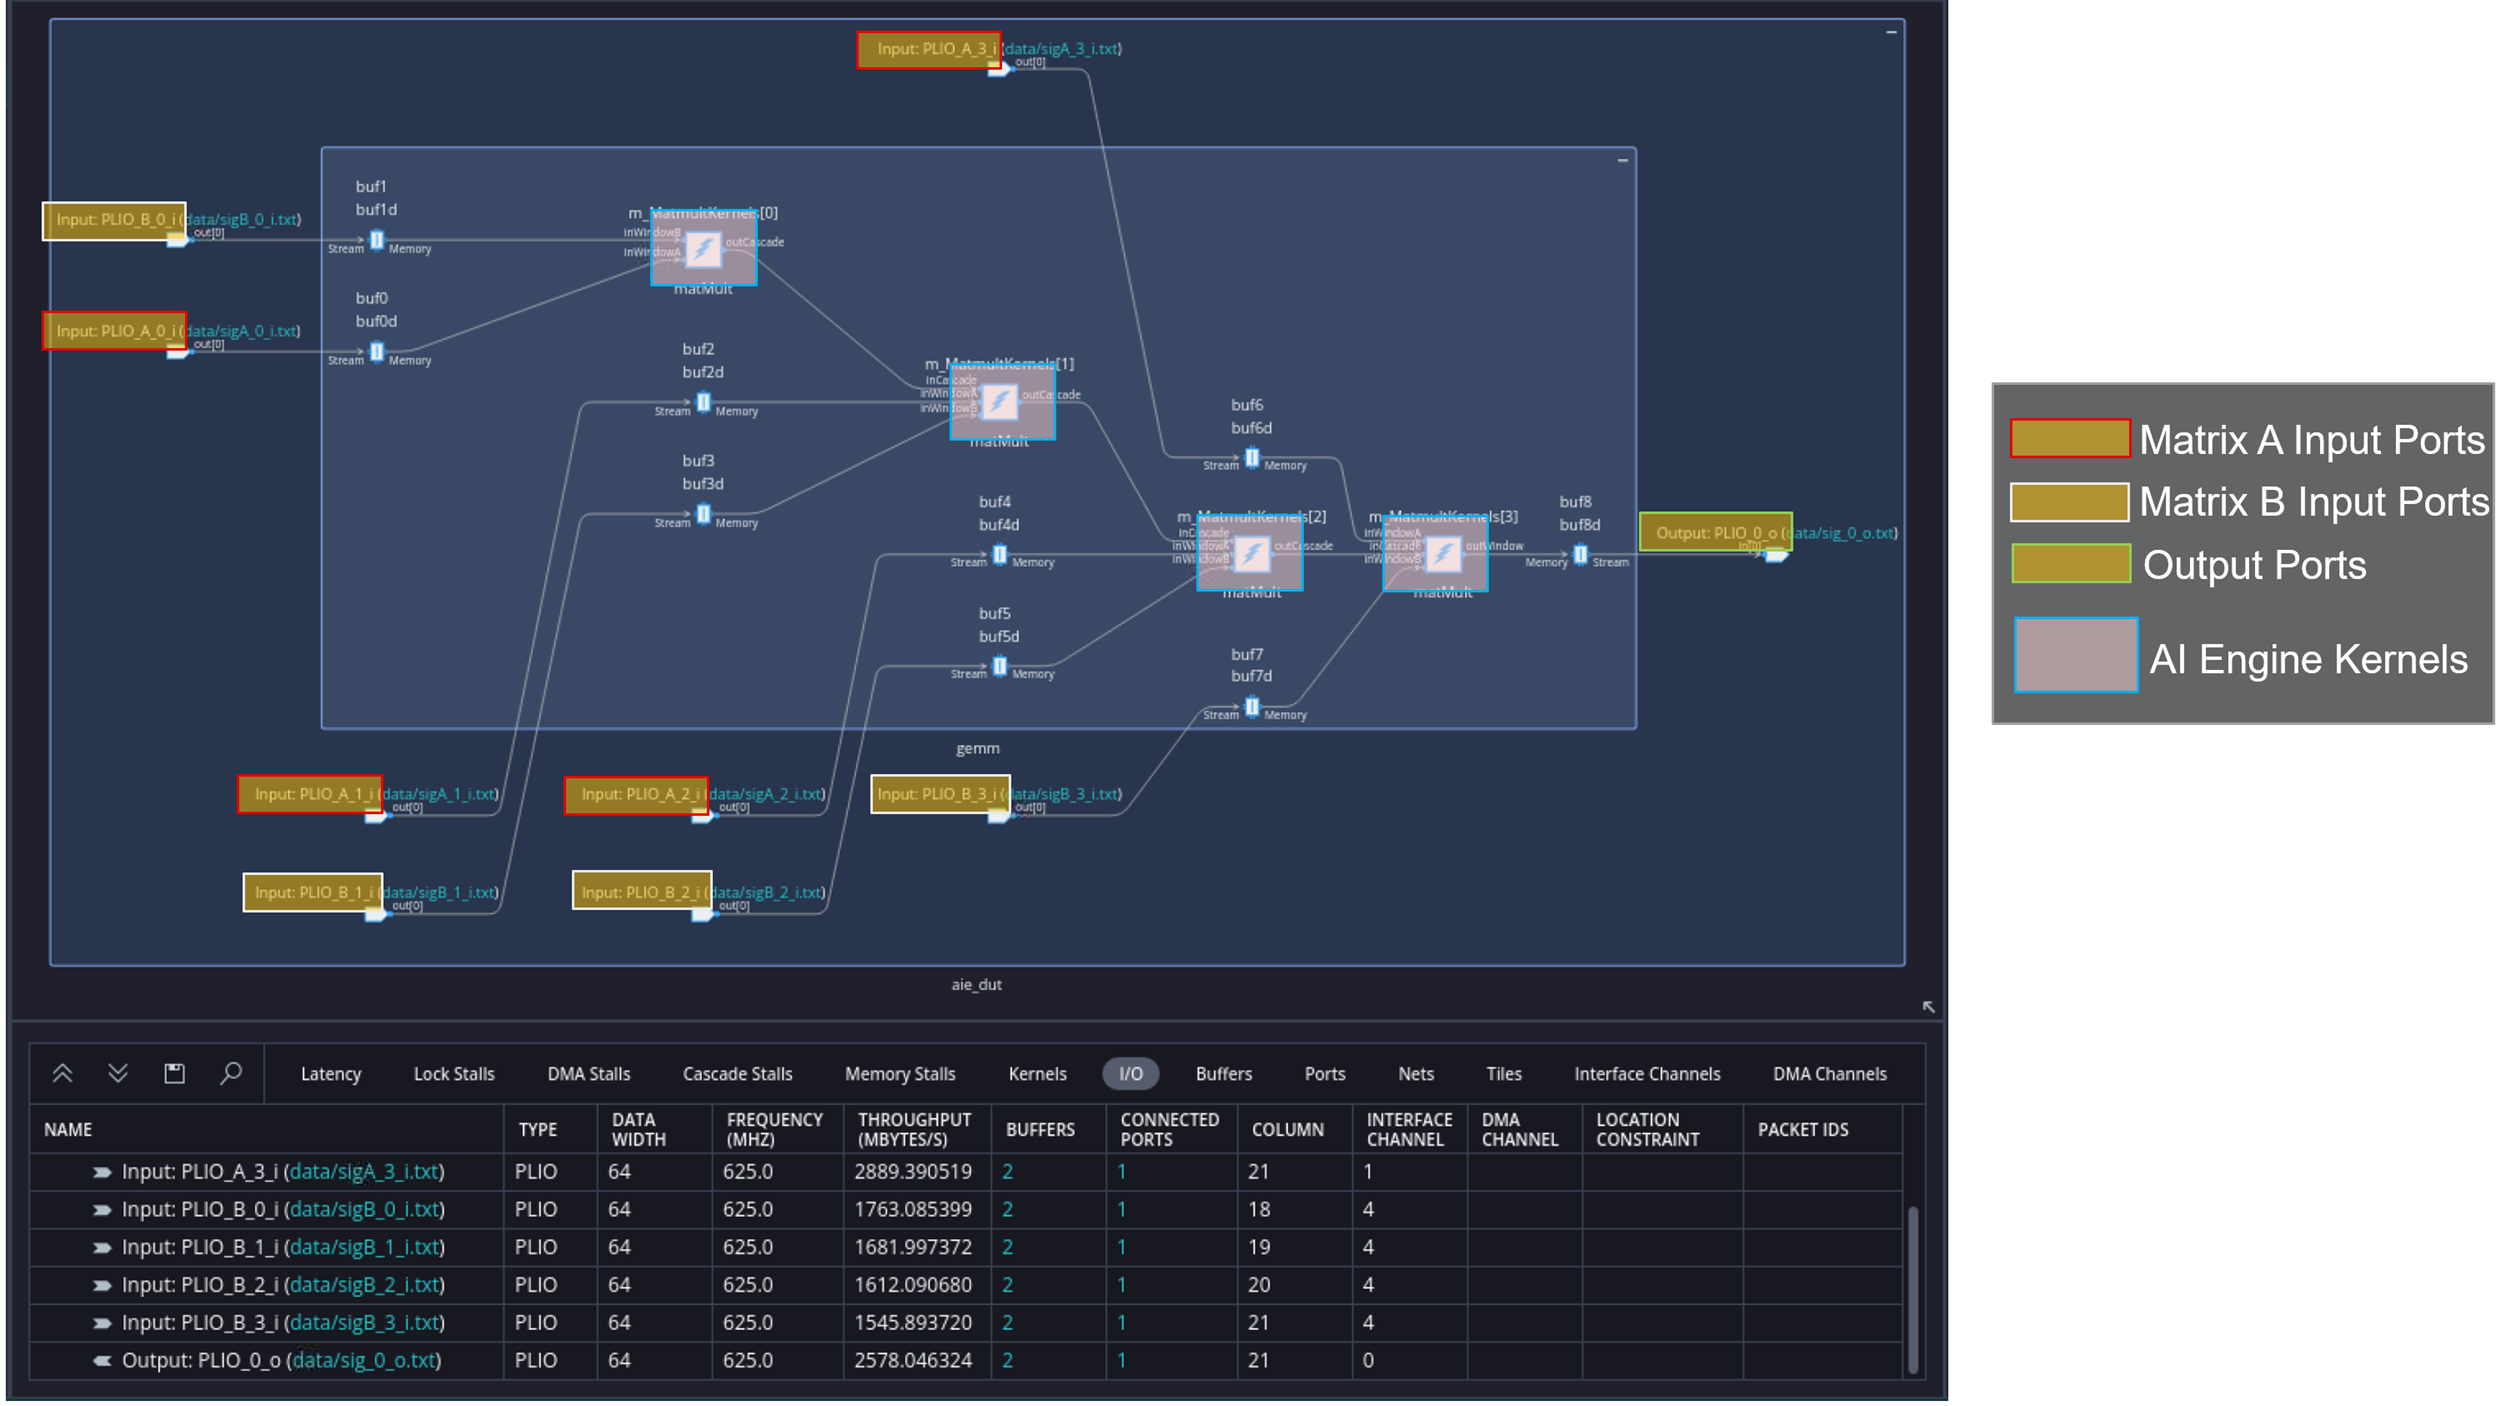
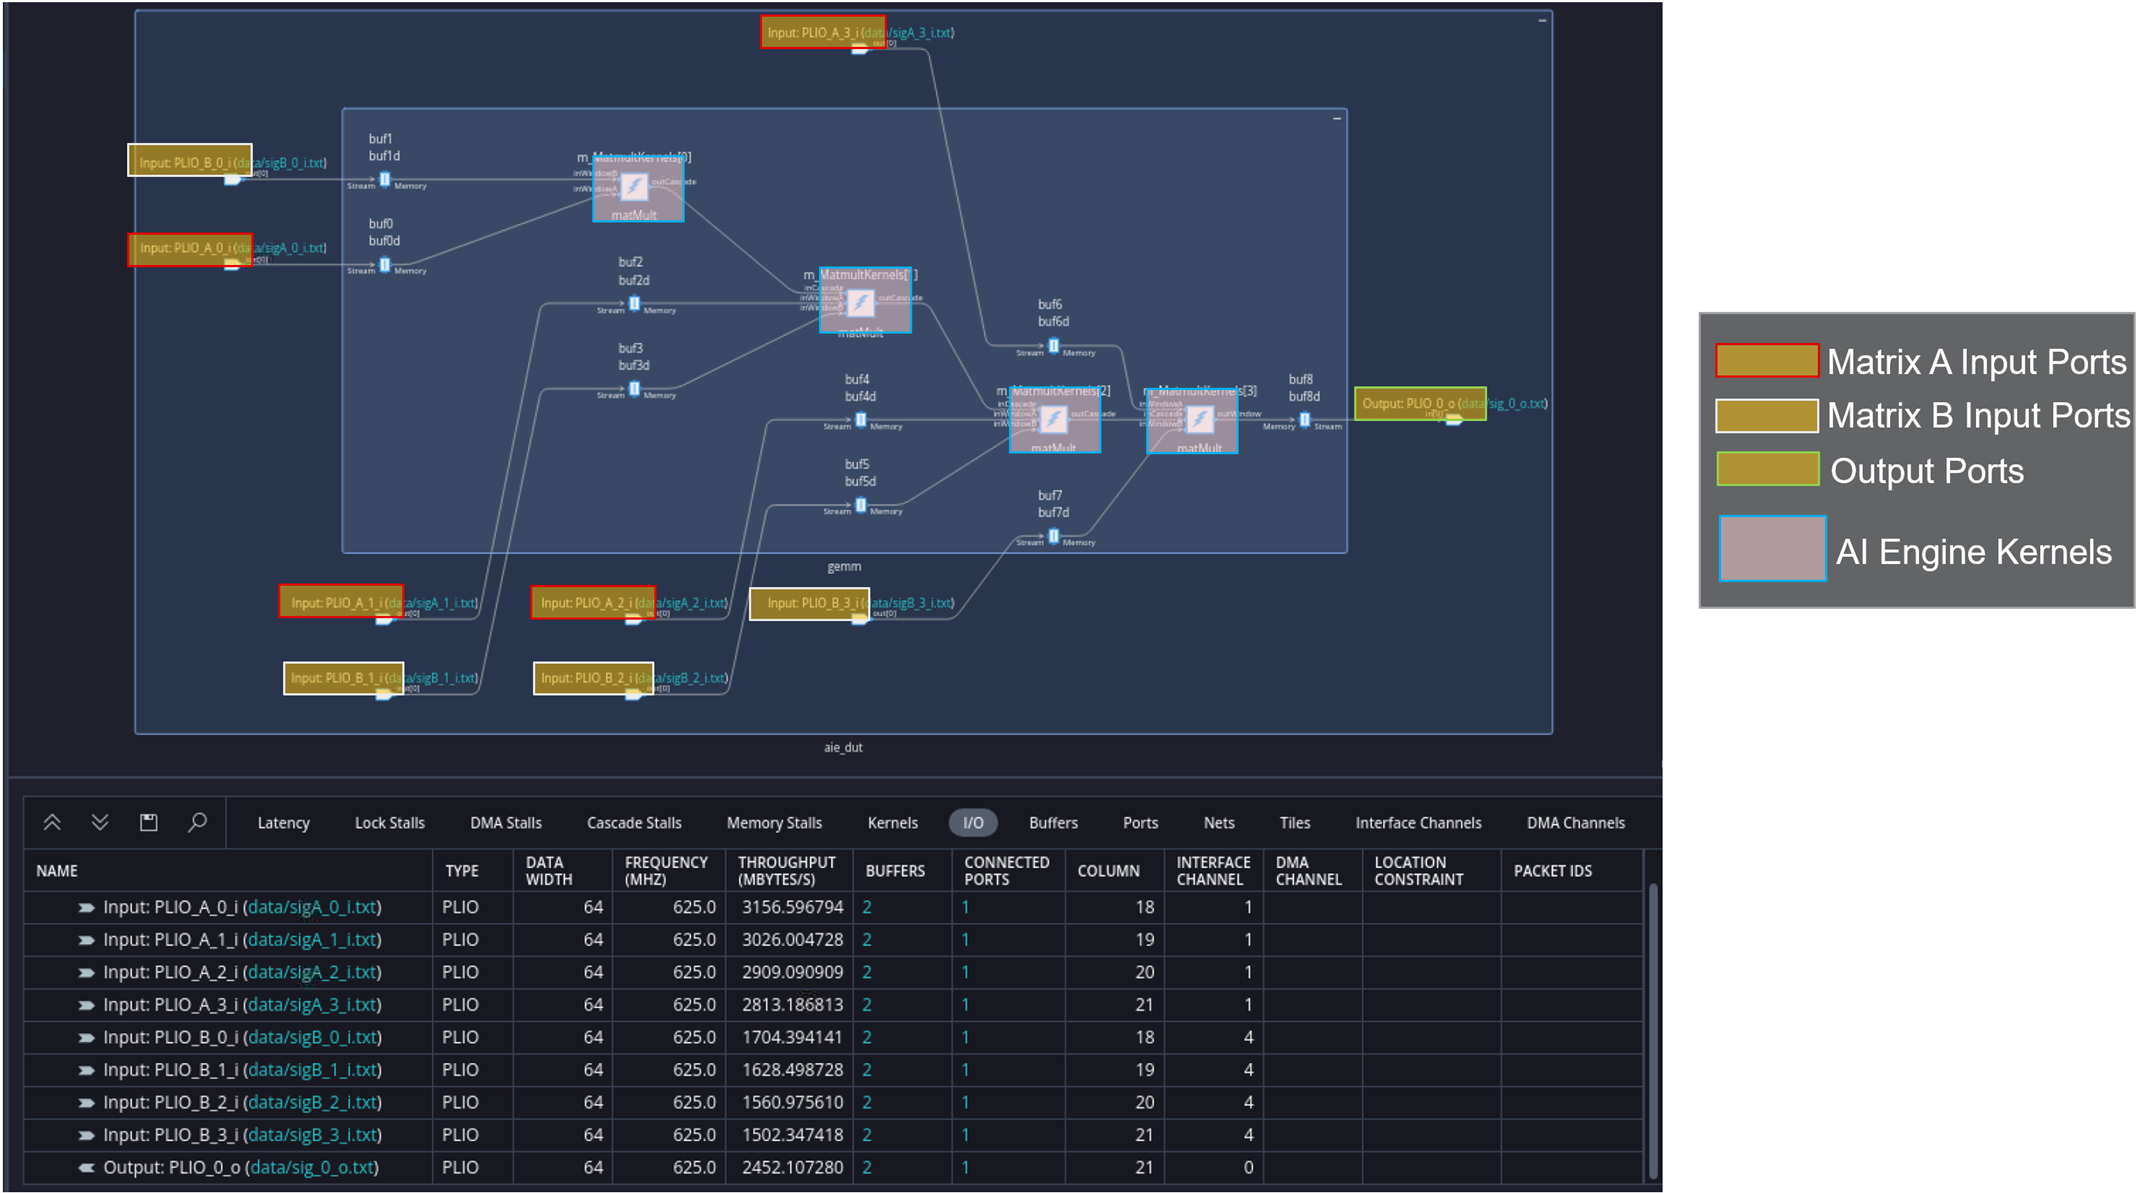
AIE-ML/F/06-gemm: update to 2025.1

Changed region(s): [[0.0, 0.0, 1.0, 1.0], [0.6168, 0.093, 0.6477, 0.1241]]

diff --git a/AI_Engine_Development/AIE-ML/Feature_Tutorials/06-gemm/README.md b/AI_Engine_Development/AIE-ML/Feature_Tutorials/06-gemm/README.md
@@ -9,7 +9,7 @@
 
 # Matrix Compute with Vitis Libraries on AIE and AIE-ML
 
-***Version: Vitis 2024.2***
+***Version: Vitis 2025.1***
 
 ## Introduction
 
@@ -280,7 +280,7 @@ For the output port **NPORT_O**, it is set to ```TP_SSR```, which means there wi
 ### Change the Project Path
 Enter the following command to navigate to the project path of the design variant 1:
 ```
-$ cd <path-to-tutorial>/aie/gemm_16_32x8
+$ cd <path-to-tutorial>/aie/gemm_16x32x8
 ```
 
 ### Review the gemm_16x32x8_graph.h file
@@ -301,7 +301,7 @@ Similarly, using NPORT_O as the loop counter, the output ports are named PLIO_0_
 
 Close the ```gemm_16x32x8_graph.h``` file after complete your review.
 
-Similarly, review the ```gemm_16x32x8_graph.cpp``` file. After completing the review, close this file.
+Similarly, review the ```gemm_16x32x8_app.cpp``` file. After completing the review, close this file.
 
 ### Compile and Simulate the Design Variant 1: Single Tile
 
@@ -332,7 +332,7 @@ $ make profile
 $ make check_sim_output_aie
 ```
 The first first command deletes all the previously generated files, the second command compiles graph code for the SystemC simulator, the third command runs the AIE simulation, and the final command invokes MATLAB to compare the simulation output with the golden test vectors. The average throughput for the IO ports is displayed at the end of AIE simulation.
-The output port PLIO_0_o throughput (MBps) is 1137.78.
+The output port PLIO_0_o throughput (MBps) is 1112.56.
 
 After running the last command (`make check_sim_output_aie`) to verify the results, the console should output as follows: 
 ```
@@ -358,7 +358,7 @@ Close the Vitis Analyzer.
 
 | Design              | TP_CASC_LEN | TP_SSR | NPORT_I | NPORT_O | Throughput  |
 |---------------------|-------------|--------|---------|---------|-------------|
-| Design Variant 1    |      2      |    1   |    1    |    1    | 1137 MBPS   |
+| Design Variant 1    |      2      |    1   |    1    |    1    | 1112 MBPS   |
 
 
 ## Design Variant 2: 4-tile design with TP_CASC_LEN=4
@@ -402,7 +402,7 @@ $ make check_sim_output_aie
 ```
 
 The average throughput for the IO ports is displayed at the end of AIE simulation.
-The output port PLIO_0_o throughput (MBps) is 2578.05.
+The output port PLIO_0_o throughput (MBps) is 2452.11.
 
 After running the last command (`make check_sim_output_aie`) to verify the results, the console should output as follows: 
 ```
@@ -430,8 +430,8 @@ Close the Vitis Analyzer.
 
 | Design              | TP_CASC_LEN | TP_SSR | NPORT_I | NPORT_O | Throughput  |
 |---------------------|-------------|--------|---------|---------|-------------|
-| Design Variant 1    |      2      |    1   |    1    |    1    | 1137 MBPS   |
-| Design Variant 2    |      4      |    1   |    4    |    1    | 2578 MBPS   |
+| Design Variant 1    |      2      |    1   |    1    |    1    | 1112 MBPS   |
+| Design Variant 2    |      4      |    1   |    4    |    1    | 2452 MBPS   |
 
 ## Design Variant 3: 8-tile design with TP_CASC_LEN=4 and TP_SSR=2
 
@@ -472,7 +472,7 @@ $ make check_sim_output_aie
 ```
 
 The average throughput for the IO ports is displayed at the end of AIE simulation.
-The throughput for the output port is approximately 3935 MBYTES/S (i.e., PLIO_0_o + PLIO_1_o).
+The throughput for the output port is approximately 3815.2 MBYTES/S (i.e., PLIO_0_o + PLIO_1_o).
 
 After running the last command (`make check_sim_output_aie`) to verify the results, the console should output as follows: 
 ```
@@ -505,9 +505,9 @@ Close the Vitis Analyzer.
 
 | Design              | TP_CASC_LEN | TP_SSR | NPORT_I | NPORT_O | Throughput  |
 |---------------------|-------------|--------|---------|---------|-------------|
-| Design Variant 1    |      2      |    1   |    1    |    1    | 1137 MBPS   |
-| Design Variant 2    |      4      |    1   |    4    |    1    | 2578 MBPS   |
-| Design Variant 3    |      4      |    2   |    8    |    2    | 3935 MBPS   |
+| Design Variant 1    |      2      |    1   |    1    |    1    | 1112 MBPS   |
+| Design Variant 2    |      4      |    1   |    4    |    1    | 2452 MBPS   |
+| Design Variant 3    |      4      |    2   |    8    |    2    | 3815 MBPS   |
 
 
 ## Migrate the Design from AIE to AIE-ML and Evalute the Performance Differences
@@ -526,7 +526,7 @@ cd ../../aie-ml/gemm_16x32x8
 Open the ```Makefile``` file and review the code. The only modification is the updated platform name.
 
 ```
-PLATFORM_USE      := xilinx_vek280_base_202410_1
+PLATFORM_USE      := xilinx_vek280_base_202510_1
 ```
 
 ### Design Variant 1: Single Tile (AIE-ML)
@@ -583,7 +583,7 @@ $ make check_sim_output_aie
 ```
 
 The average throughput for the IO ports is displayed at the end of AIE simulation.
-The throughput for the output port is approximately 3080 MB/s.
+The throughput for the output port is approximately 3029 MB/s.
 
 After running the last command (`make check_sim_output_aie`) to verify the results, the console should output as follows: 
 ```
@@ -607,7 +607,7 @@ Close the Vitis Analyzer.
 | Design              | TP_CASC_LEN | TP_SSR | NPORT_I | NPORT_O | Throughput (AIE)|Throughput (AIE-ML)|
 |---------------------|-------------|--------|---------|---------|-----------------|-------------------|
 | Design Variant 1    |      2      |    1   |    1    |    1    | 1137 MBPS       | 1529 MBPS         |
-| Design Variant 2    |      4      |    1   |    4    |    1    | 2578 MBPS       | 3080 MBPS         |
+| Design Variant 2    |      4      |    1   |    4    |    1    | 2578 MBPS       | 3029 MBPS         |
 | Design Variant 3    |      4      |    2   |    8    |    2    | 3935 MBPS       |                   |
 
 ## Design Variant 3: 8-tile design with TP_CASC_LEN=4 and TP_SSR=2 (AIE-ML)
@@ -627,7 +627,7 @@ $ make check_sim_output_aie
 ```
 
 The average throughput for the IO ports is displayed at the end of AIE simulation.
-The throughput for the output port is approximately 6481 MB/s (i.e., PLIO_0_o + PLIO_1_o).
+The throughput for the output port is approximately 6702 MB/s (i.e., PLIO_0_o + PLIO_1_o).
 
 After running the last command (`make check_sim_output_aie`) to verify the results, the console should output as follows: 
 ```
@@ -651,15 +651,15 @@ Close the Vitis Analyzer.
 | Design              | TP_CASC_LEN | TP_SSR | NPORT_I | NPORT_O | Throughput (AIE)|Throughput (AIE-ML)|
 |---------------------|-------------|--------|---------|---------|-----------------|-------------------|
 | Design Variant 1    |      2      |    1   |    1    |    1    | 1137 MBPS       | 1529 MBPS         |
-| Design Variant 2    |      4      |    1   |    4    |    1    | 2578 MBPS       | 3080 MBPS         |
-| Design Variant 3    |      4      |    2   |    8    |    2    | 3935 MBPS       | 6481 MBPS         |
+| Design Variant 2    |      4      |    1   |    4    |    1    | 2578 MBPS       | 3029 MBPS         |
+| Design Variant 3    |      4      |    2   |    8    |    2    | 3935 MBPS       | 6702 MBPS         |
 
 
-From the preceding table, for **Design Variant 3**, the AIE-ML architecture achieves a performance that is roughly **1.6** times faster than the AIE architecture.
+From the preceding table, for **Design Variant 3**, the AIE-ML architecture achieves a performance that is roughly **1.7** times faster than the AIE architecture.
 
 **Why does the AIE-ML architecture outperform the AIE architecture?**
 
-The **AIE** architecture supports ***8 MACs*** for ``int32 x int32`` operations, whereas the **AIE-ML** architecture supports ***32 MACs*** for ``int32 x int16`` operations. However, for a 32x32 multiplication in AIE-ML, two of these operations are needed, resulting in an overall capacity of 16 MACs. This theoretically provides a 2X benefit, but due to emulation performance, a 1.6X improvement is observed.
+The **AIE** architecture supports ***8 MACs*** for ``int32 x int32`` operations, whereas the **AIE-ML** architecture supports ***32 MACs*** for ``int32 x int16`` operations. However, for a 32x32 multiplication in AIE-ML, two of these operations are needed, resulting in an overall capacity of 16 MACs. This theoretically provides a 2X benefit, but due to emulation performance, a 1.7X improvement is observed.
 
 ![AIE vs AIE-ML](./images/19_Vector_Data_Path_AIE_AIE-ML.png)
 
